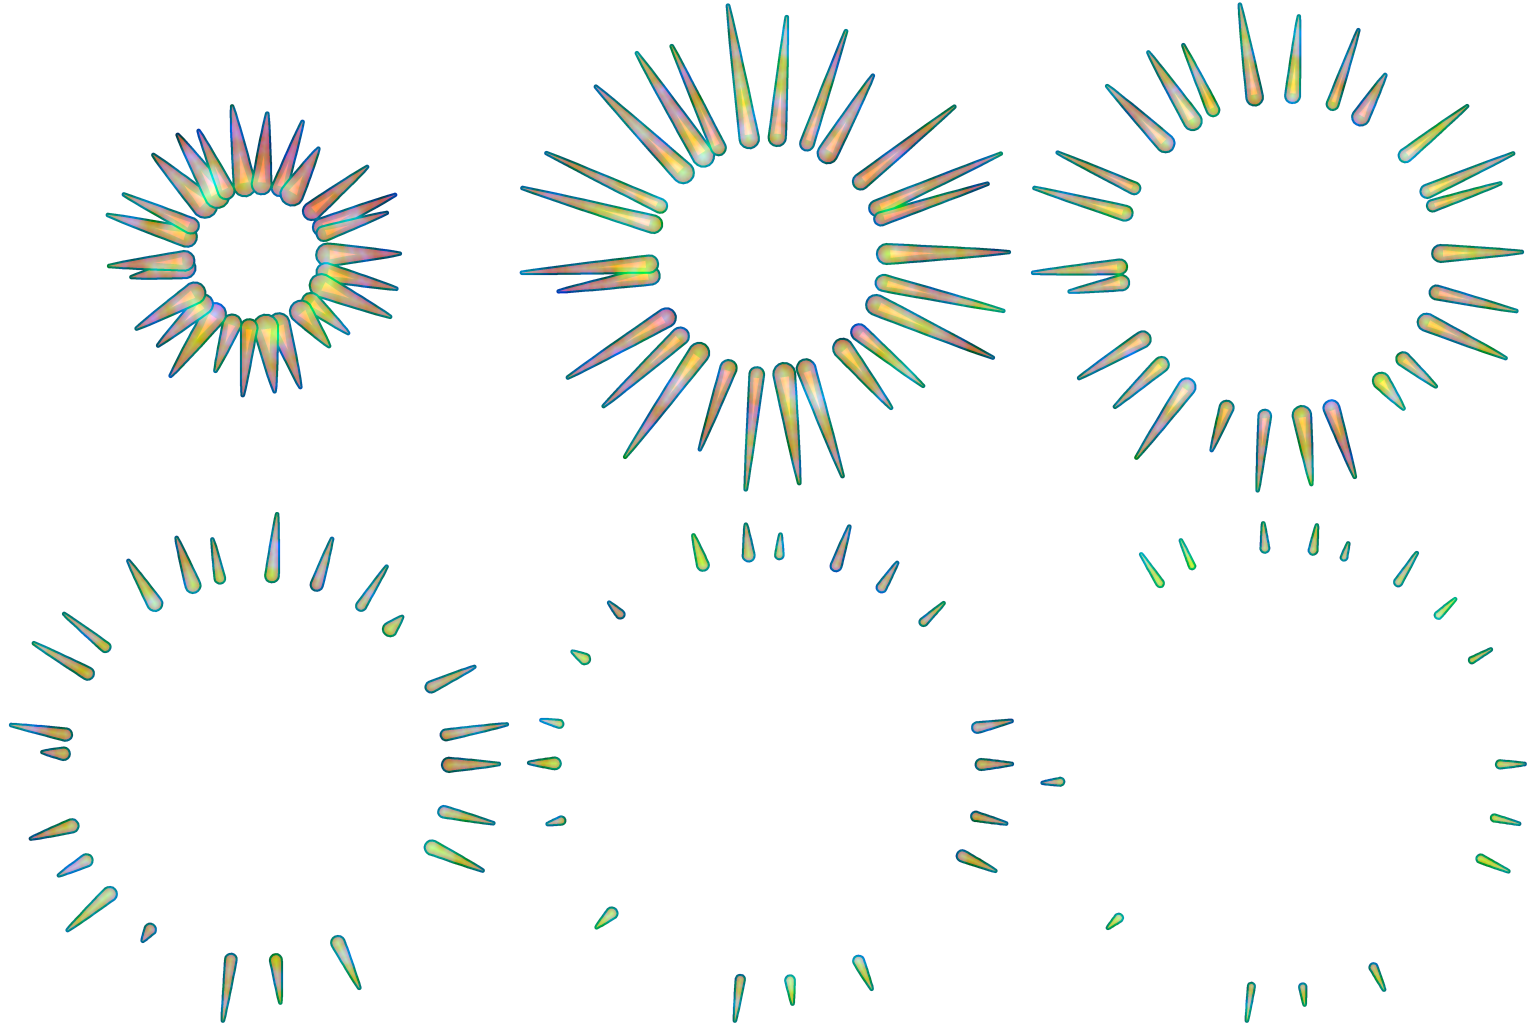
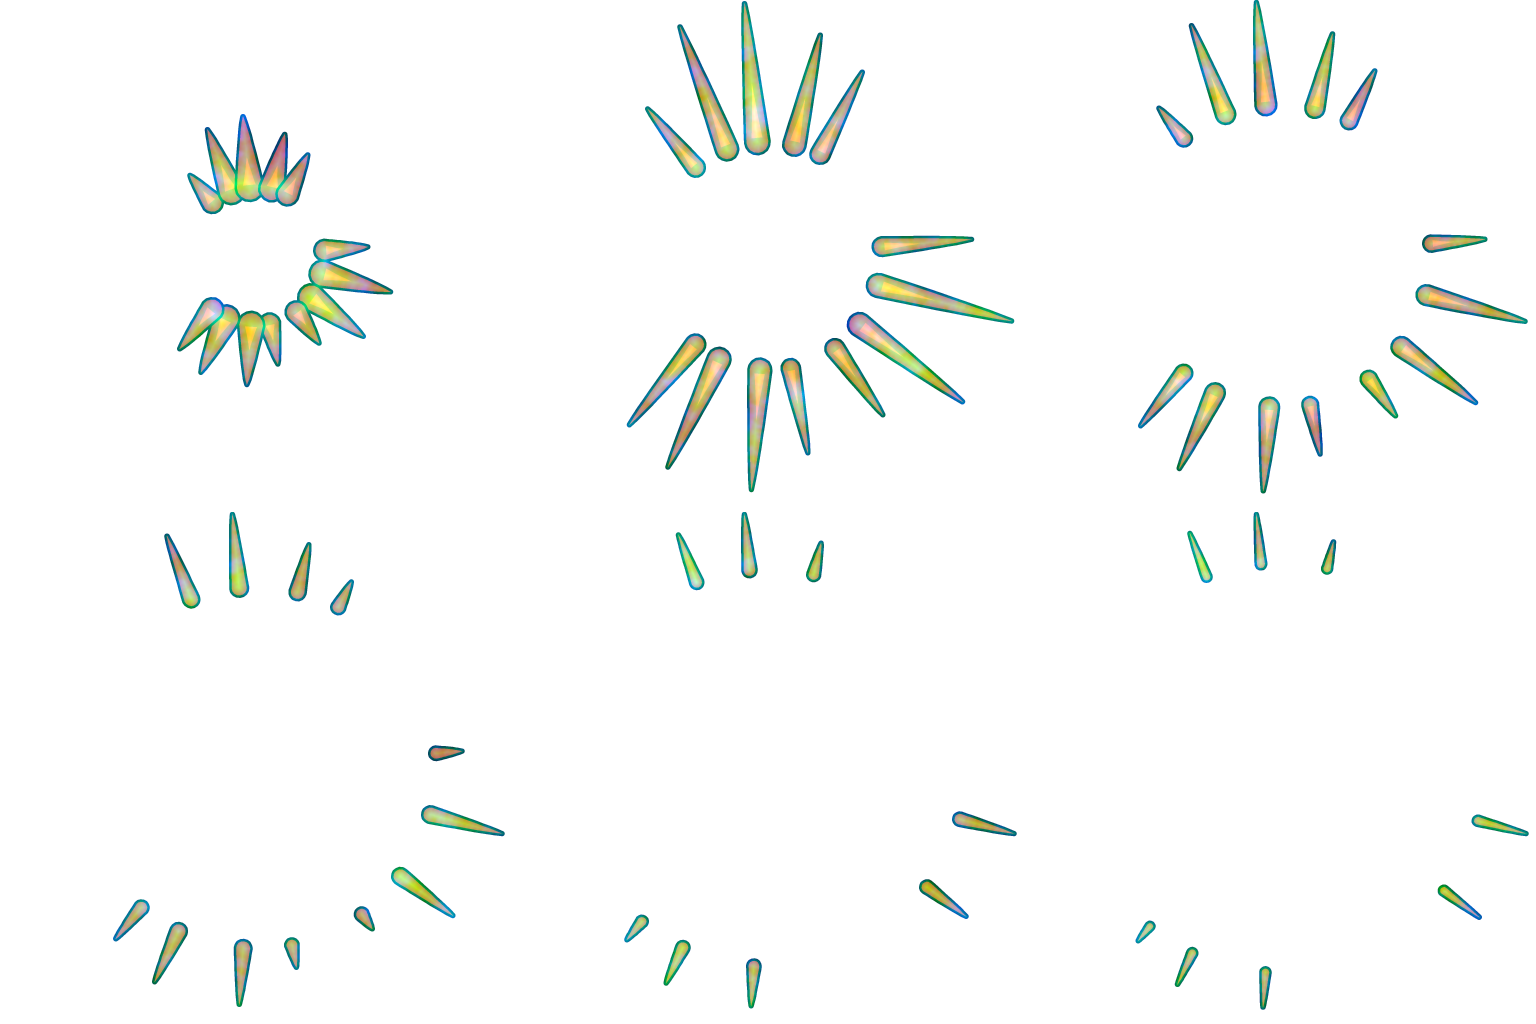
feat(fx): breaker landing rays in clustered fans and a drawn war cry
The landing rays were an even ring of 26 tapered carrots on every breaker
(a sawblade on Grounded, an urchin on Abyss): they are now three uneven
fans from vfxlib.cluster_angles, and dark landings have none. The war cry
as a breaker window opens was 12 polygon wedges in an even ring round the
hero: it is now the drawn war_cry sheet (three fans of strokes round a
clear middle), stamped through fx_beat in real time and pooled.

diff --git a/tools/vfx_gen/gen_spectacle.py b/tools/vfx_gen/gen_spectacle.py
@@ -21,7 +21,8 @@ import numpy as np
 
 sys.path.insert(0, os.path.dirname(os.path.abspath(__file__)))
 from vfxlib import (BODY, DEEP, HOT, INK, LIGHT, SS, Frame, ellipse_mask, grow, jag_path,  # noqa: E402
-                    pack, poly_mask, preview, rng, save, star, stroke, wobble_ring)
+                    pack, poly_mask, preview, rng, save, star, stroke, wobble_ring,
+                    cluster_angles)
 
 OUT = os.path.join(os.path.dirname(os.path.abspath(__file__)), "..", "..", "assets", "vfx", "designed")
 
@@ -170,25 +171,62 @@ def slam_ink(i, n, size):
 # reach with a hot inner third, then the inner ends race out and the lines thin away.
 
 def slam_rays(i, n, size):
+    """fx-language rule 7: three uneven fans of speed lines with clear gaps (vfxlib.cluster_angles), never the even
+    ring of 26 carrots it was (a sawblade on Grounded, an urchin on Abyss). Each fan's middle line is the longest and
+    fattest; the ends of a fan are short. Frame 0 they start short at the hole, 1 the peak at full reach with a hot inner
+    third, 2 still hot, then the inner ends race out and the lines thin away tail last."""
     f = Frame(size)
     c = f.c
-    g = rng(3501)
-    k_l = 26
+    g = rng(3502)
     t = i / (n - 1)
-    for j in range(k_l):
-        a = math.tau * j / k_l + g.uniform(-0.08, 0.08)
-        ln = g.uniform(0.75, 1.0)
-        back = lerp(0.3, 0.86, ease_out(t) ** 1.2) if i > 0 else 0.28
-        front = min(0.995, (0.6 if i == 0 else lerp(0.98, 1.0, t)) * ln + (0.0 if i == 0 else 0.02))
+    for j, (a, wt) in enumerate(cluster_angles(13, 3507, clusters=3, spread=0.5)):
+        ln = lerp(0.62, 1.0, wt) * g.uniform(0.94, 1.04)
+        back = lerp(0.3, 0.8, ease_out(t) ** 1.2) if i > 0 else 0.27
+        front = min(0.995, (0.55 if i == 0 else lerp(0.97, 1.0, t)) * ln + (0.0 if i == 0 else 0.02))
         if front - back < 0.05:
             continue
-        w = f.u(lerp(0.07, 0.02, t)) * g.uniform(0.7, 1.25)
+        w = f.u(lerp(0.085, 0.026, t)) * lerp(0.6, 1.15, wt)
         path = [polar(c, f.u(lerp(back, front, u)), a) for u in np.linspace(0, 1, 12)]
-        m = poly_mask([stroke(path, lambda u: w * (1 - u) ** 0.85 + 0.5, cap=True)], f.S)
-        f.fill(m, LIGHT, ink=2.2)
+        m = poly_mask([stroke(path, lambda u: w * (1 - u) ** 0.8 + 0.5, cap=True)], f.S)
+        f.fill(m, LIGHT, ink=2.6)
         if i <= 2:
-            core = [polar(c, f.u(lerp(back, front, u)), a) for u in np.linspace(0.03, 0.4, 6)]
-            f.fill(poly_mask([stroke(core, [w * 0.45, w * 0.2, 0.0], cap=False)], f.S) * m, HOT)
+            core = [polar(c, f.u(lerp(back, front, u)), a) for u in np.linspace(0.03, 0.42, 6)]
+            f.fill(poly_mask([stroke(core, [w * 0.5, w * 0.22, 0.0], cap=False)], f.S) * m, HOT)
+    return f.finish()
+
+
+# --- war_cry: the roar as a breaker's window opens (breaker_quake.war_cry) ----------------------------------------
+# fx-language: the hang's roar round him, drawn. Three uneven fans (cluster_angles) of slightly bowed strokes, fat and
+# round at the inner end round a clear middle (he stands in it: never over him), needle-thin outward; each fan has a
+# short echo stroke beside its longest. Frame 0 the anticipation: short fat stubs pulled in at the hole's edge; 1 the
+# peak, thrown out with a hot inner third; 2-3 they stretch and thin; 4-5 they snap off from the inside and break.
+
+def war_cry(i, n, size):
+    f = Frame(size)
+    c = f.c
+    g = rng(3601)
+    t = i / (n - 1)
+    hole = 0.4
+    for j, (a, wt) in enumerate(cluster_angles(10, 3607, clusters=3, spread=0.45)):
+        ln = lerp(0.5, 1.0, wt) * g.uniform(0.92, 1.05)
+        bow = (0.025 if j % 2 else -0.02) * g.uniform(0.6, 1.2)
+        if i == 0:
+            back, front = hole * 0.92, hole + 0.12 * ln
+        else:
+            back = hole + lerp(0.0, 0.36, ease_out(t) ** 1.4) + g.uniform(0.0, 0.03)
+            front = min(0.985, hole + lerp(0.48, 0.58, ease_out(t)) * ln)
+        if front - back < 0.04:
+            continue
+        w = f.u(lerp(0.1, 0.04, t) if i > 0 else 0.1) * lerp(0.6, 1.15, wt)
+        path = [polar(c, f.u(lerp(back, front, u)), a + bow * math.sin(u * math.pi)) for u in np.linspace(0, 1, 14)]
+        m = poly_mask([stroke(path, lambda u: w * (1 - u) ** 0.85 + 0.5, cap=True)], f.S)
+        f.fill(m, BODY, ink=2.6)
+        if i <= 2:
+            core = [polar(c, f.u(lerp(back, front, u)), a + bow * math.sin(u * math.pi)) for u in np.linspace(0.04, 0.45, 8)]
+            f.fill(poly_mask([stroke(core, [w * 0.45, w * 0.22, 0.0], cap=False)], f.S) * m, HOT if i <= 1 else LIGHT)
+        elif i <= 3:
+            lit = [polar(c, f.u(lerp(back, front, u)), a + bow * math.sin(u * math.pi)) for u in np.linspace(0.04, 0.5, 8)]
+            f.fill(poly_mask([stroke(lit, [w * 0.35, w * 0.15, 0.0], cap=False)], f.S) * m, LIGHT)
     return f.finish()
 
 
@@ -420,6 +458,7 @@ SHEETS = {
     "floor_cracks": (floor_cracks, 512, 3, 6, "earth", "edge", 0.5),
     "floor_arcs": (floor_arcs, 512, 3, 6, "boltA", "edge", 0.5),
     "floor_splat": (floor_splat, 512, 3, 6, "void", "edge", 0.5),
+    "war_cry": (war_cry, 384, 3, 6, "void", "edge", 0.4),
     "wall_star": (wall_star, 320, 3, 6, "hit", "center", 0.45),
     "smoke_curl": (smoke_curl, 192, 4, 8, "dust", "edge", 0.5),
     "hang_focus": (hang_focus, 512, 2, 4, "gold", "edge", 0.3),
